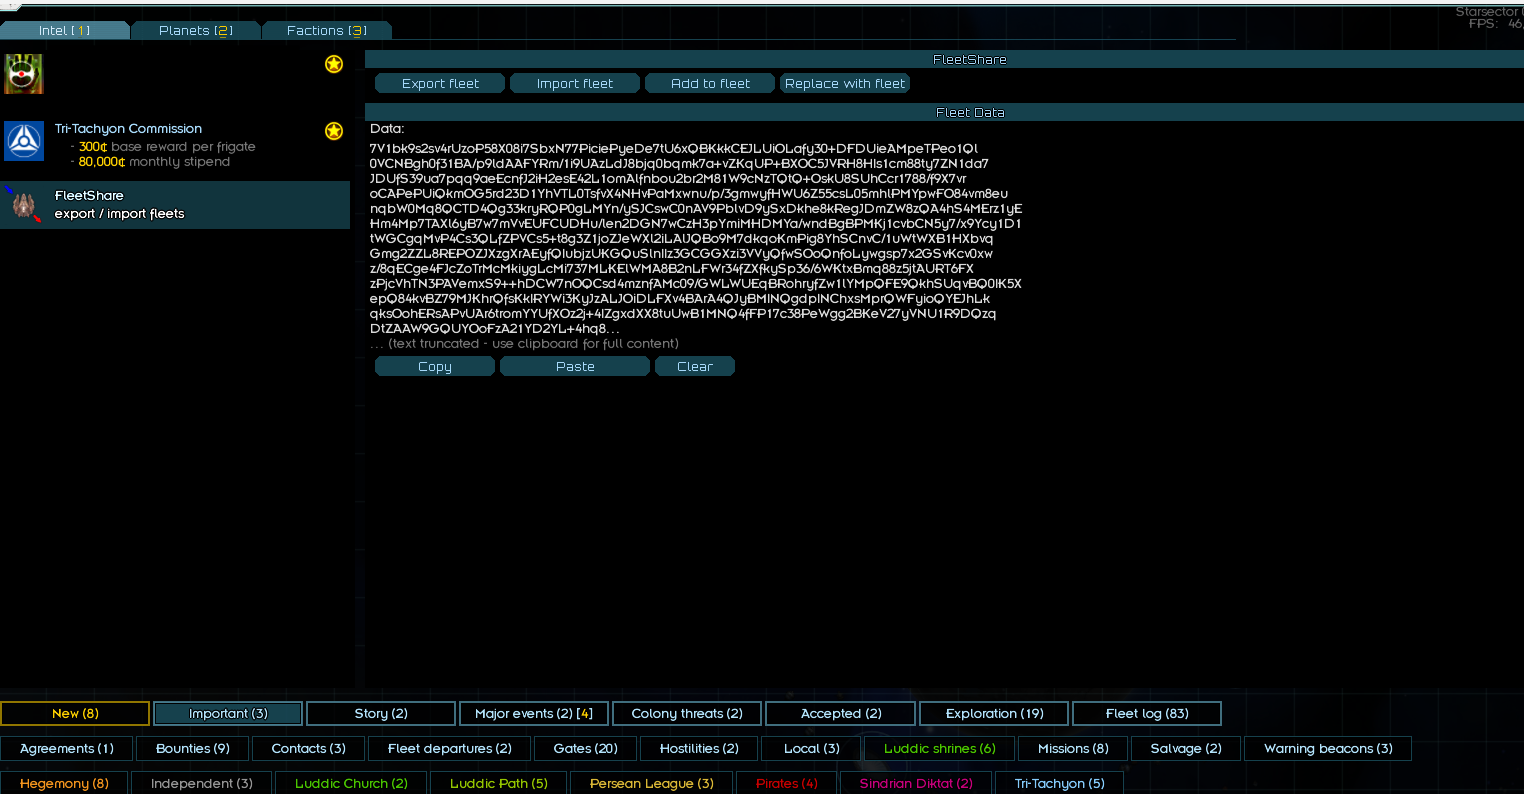
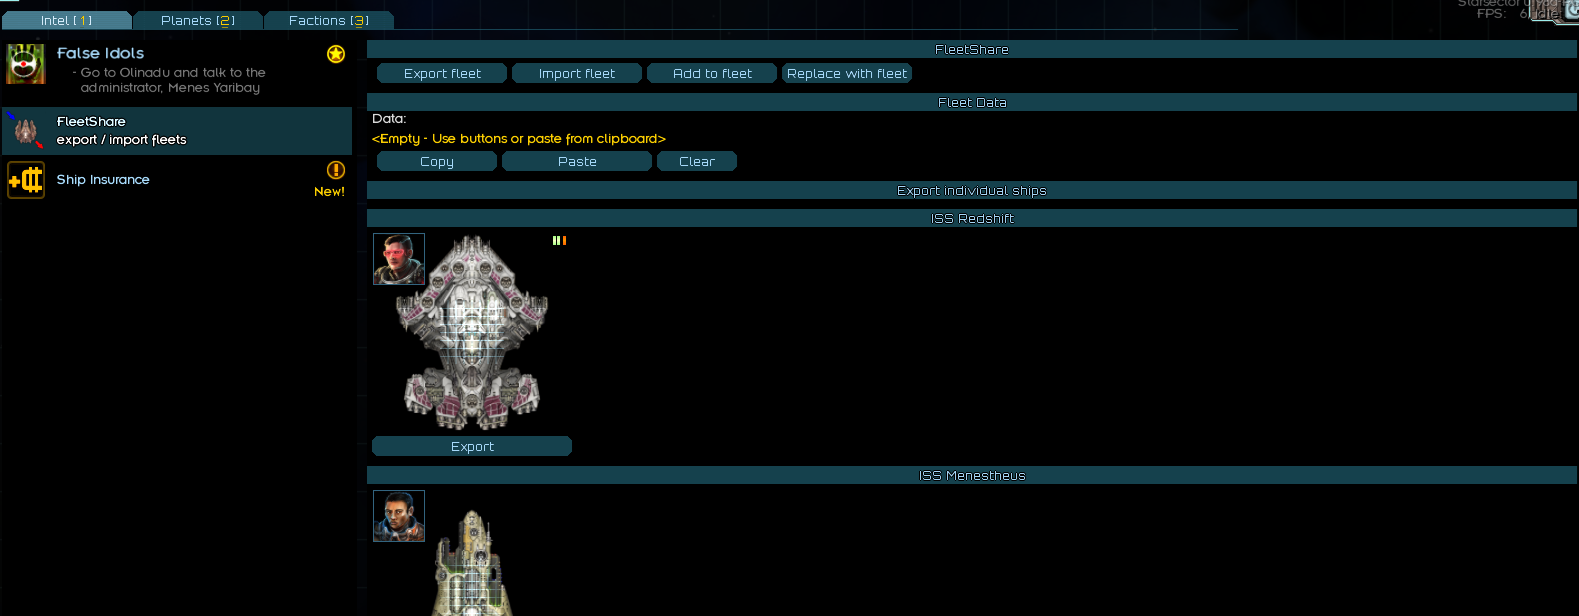
Added: -Export single ships -Updated UI -support for version Checker

Changed region(s): [[0.0, 0.0, 1.0, 1.0]]

diff --git a/src/matlabmaster/fleetshare/DebugConsoleIntel.java b/src/matlabmaster/fleetshare/DebugConsoleIntel.java
@@ -2,6 +2,7 @@ package matlabmaster.fleetshare;
 
 import com.fs.starfarer.api.Global;
 import com.fs.starfarer.api.campaign.*;
+import com.fs.starfarer.api.fleet.FleetMemberAPI;
 import com.fs.starfarer.api.impl.campaign.ids.*;
 import com.fs.starfarer.api.impl.campaign.intel.BaseIntelPlugin;
 import com.fs.starfarer.api.ui.*;
@@ -16,6 +17,7 @@ import java.awt.datatransfer.Clipboard;
 import java.awt.datatransfer.StringSelection;
 import java.awt.datatransfer.DataFlavor;
 import java.io.IOException;
+import java.util.List;
 import java.util.Set;
 
 public class DebugConsoleIntel extends BaseIntelPlugin {
@@ -142,6 +144,15 @@ public class DebugConsoleIntel extends BaseIntelPlugin {
         tooltip.addCustom(actionButtonRowPanel, pad); // Centered alignment added
         // --- End of Horizontal Action Button Row ---
 
+        tooltip.addSectionHeading("Export individual ships",Alignment.MID,opad);
+
+        List<FleetMemberAPI> shipsList = Global.getSector().getPlayerFleet().getFleetData().getMembersListCopy();
+        for(int i = 0 ; i < shipsList.size(); i++){
+            tooltip.addSectionHeading(shipsList.get(i).getShipName(),Alignment.MID, opad);
+            tooltip.addShipList(1,1,200,Color.RED,shipsList.subList(i,i+1),5f);
+            tooltip.addButton("Export",shipsList.get(i),200,buttonHeight,4f);
+        }
+
         panel.addUIElement(tooltip).inTL(0, 0);
     }
 
@@ -191,6 +202,23 @@ public class DebugConsoleIntel extends BaseIntelPlugin {
     @Override
     public void buttonPressConfirmed(Object buttonId, IntelUIAPI ui) {
         // All actions now read from and modify mainText
+
+        if(buttonId instanceof FleetMemberAPI){
+            //this is an individual ship export
+            //the easiest way to do it is creating an empty fleet, adding the ship then exporting the fleet
+            CampaignFleetAPI exportShipFleet = Global.getFactory().createEmptyFleet(Factions.NEUTRAL,"Exported ship",true);
+            exportShipFleet.getFleetData().addFleetMember((FleetMemberAPI) buttonId);
+            String result = null;
+            try{
+                result = String.valueOf(matlabmaster.fleetshare.utils.FleetHelper.serializeFleet(exportShipFleet));
+                mainText = CompressHelper.compress(result);
+            } catch (JSONException | IOException e){
+                mainText = "Well that's weird, it error out, I didn't know you could trigger this one.";
+            }
+            ui.updateUIForItem(this);
+        }
+
+
         if (BUTTON_1.equals(buttonId)) {
             Global.getLogger(this.getClass()).info("Export fleet button pressed");
             String result = null;
